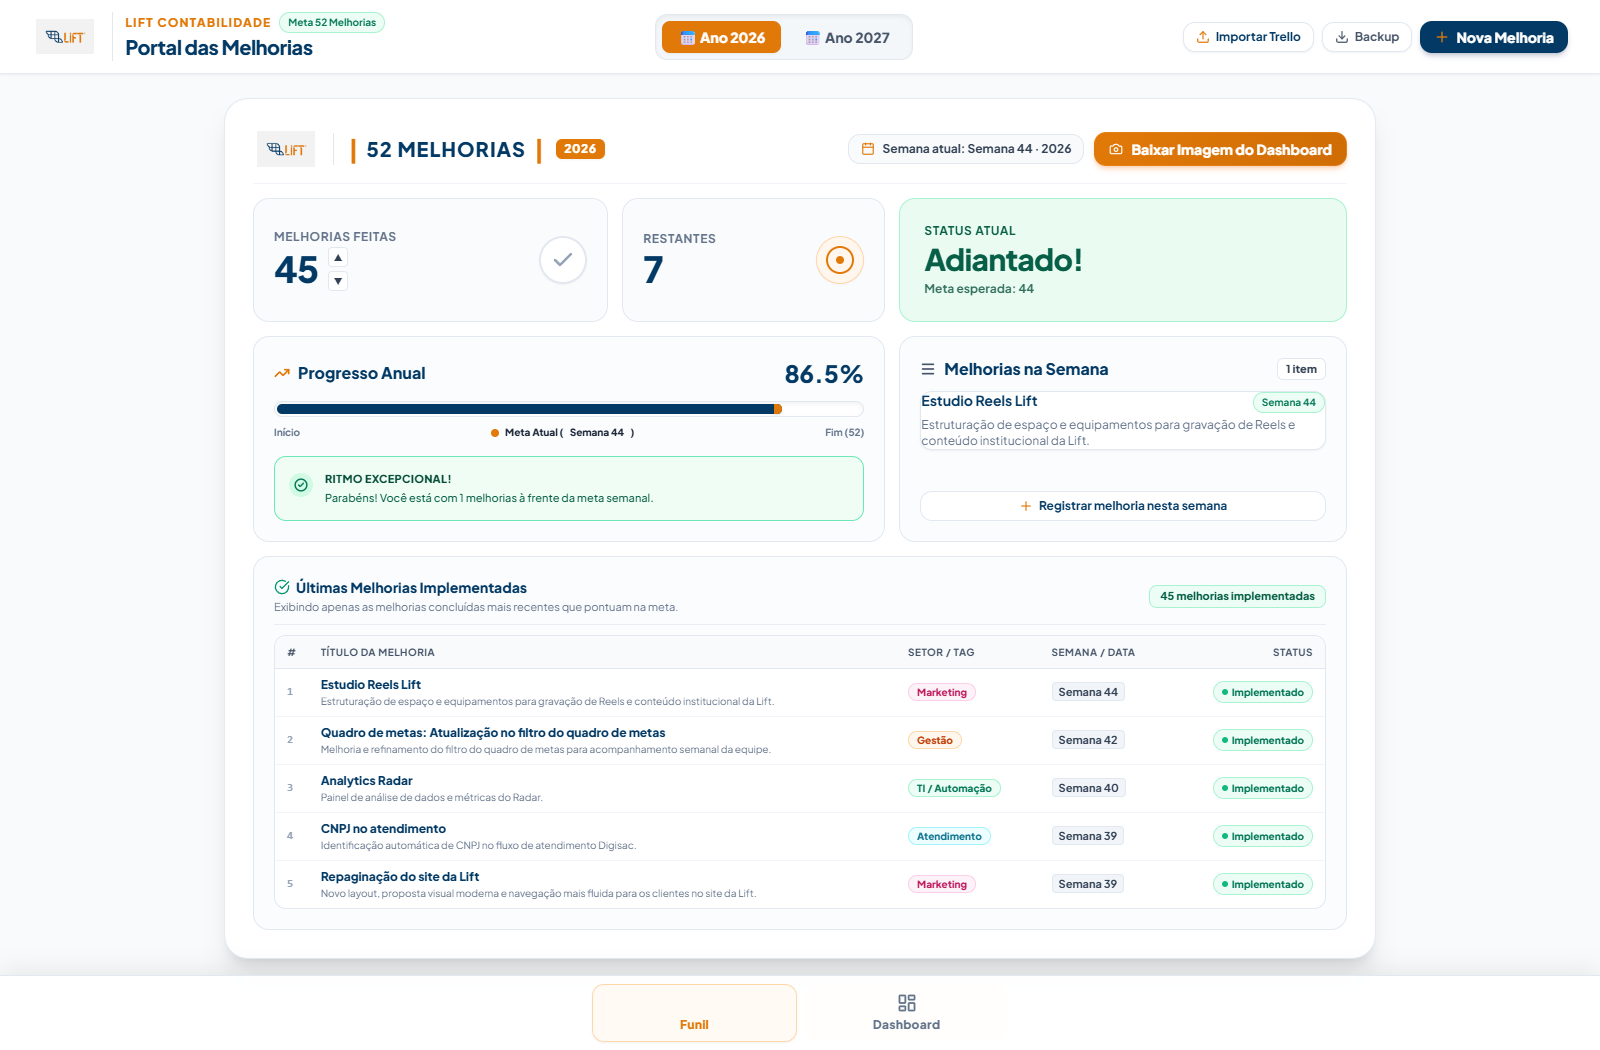
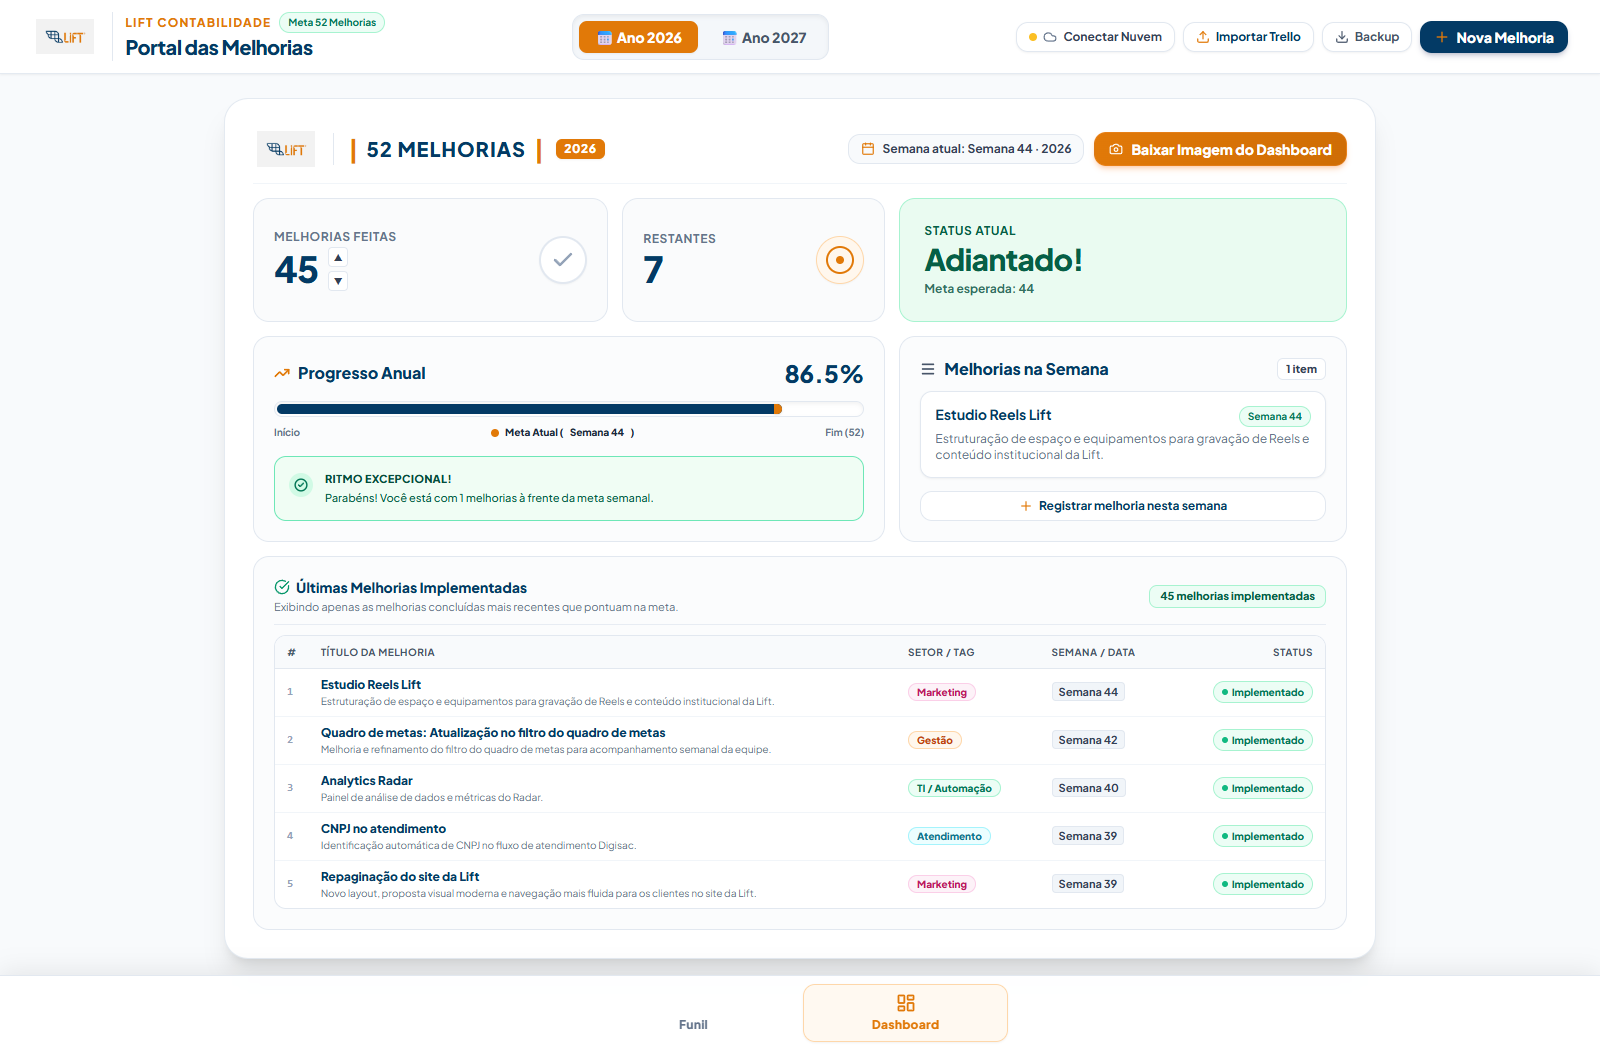
feat: Adiciona integração em tempo real com Supabase na nuvem

diff --git a/app.js b/app.js
@@ -80,6 +80,9 @@ function initApp() {
   // Setup Board Wheel Scroll
   setupBoardWheelScroll();
 
+  // Initialize Supabase Cloud Sync (Real-time team synchronization)
+  initSupabaseClient();
+
   // Check URL hash for initial tab
   if (window.location.hash === '#dashboard') {
     switchTab('dashboard');
@@ -426,6 +429,17 @@ function moveCardToList(cardId, targetListId) {
     }
     persistData();
     renderAll();
+
+    // Sincronizar mudança de etapa na nuvem (Supabase)
+    if (supabaseClient) {
+      supabaseClient.from('melhorias').update({
+        id_list: targetListId,
+        week: card.week,
+        date: card.date
+      }).eq('id', cardId).then(({ error }) => {
+        if (error) console.warn('Supabase move error:', error);
+      });
+    }
   }
 }
 
@@ -840,6 +854,26 @@ function saveCard(event) {
   persistData();
   closeCardModal();
   renderAll();
+
+  // Sincronizar criação / edição na nuvem (Supabase)
+  if (supabaseClient) {
+    const cardToSync = id ? cards.find(c => c.id === id) : cards[cards.length - 1];
+    if (cardToSync) {
+      supabaseClient.from('melhorias').upsert({
+        id: cardToSync.id,
+        year: currentYear,
+        id_list: cardToSync.idList,
+        name: cardToSync.name,
+        description: cardToSync.desc || '',
+        tag: cardToSync.tag || 'Geral',
+        author: cardToSync.author || 'Pedro Levi',
+        week: cardToSync.week || currentWeek,
+        date: cardToSync.date || new Date().toISOString()
+      }).then(({ error }) => {
+        if (error) console.warn('Supabase upsert error:', error);
+      });
+    }
+  }
 }
 
 function deleteCurrentCard() {
@@ -851,6 +885,13 @@ function deleteCurrentCard() {
     persistData();
     closeCardModal();
     renderAll();
+
+    // Sincronizar exclusão na nuvem (Supabase)
+    if (supabaseClient) {
+      supabaseClient.from('melhorias').delete().eq('id', id).then(({ error }) => {
+        if (error) console.warn('Supabase delete error:', error);
+      });
+    }
   }
 }
 
@@ -1075,6 +1116,237 @@ function escapeHtml(str) {
     .replace(/>/g, '&gt;')
     .replace(/"/g, '&quot;')
     .replace(/'/g, '&#039;');
+}
+
+// ============================================================
+// SUPABASE (POSTGRESQL NA NUVEM) - SINCRONIZAÇÃO EM TEMPO REAL
+// ============================================================
+let supabaseClient = null;
+
+function initSupabaseClient() {
+  const url = (typeof SUPABASE_URL !== 'undefined' && SUPABASE_URL) ? SUPABASE_URL.trim() : (localStorage.getItem('lift_supabase_url') || '').trim();
+  const key = (typeof SUPABASE_ANON_KEY !== 'undefined' && SUPABASE_ANON_KEY) ? SUPABASE_ANON_KEY.trim() : (localStorage.getItem('lift_supabase_key') || '').trim();
+
+  const dot = document.getElementById('cloudStatusDot');
+  const txt = document.getElementById('cloudStatusText');
+
+  if (url && key && window.supabase) {
+    try {
+      supabaseClient = window.supabase.createClient(url, key);
+      if (dot) dot.className = 'w-2 h-2 rounded-full bg-emerald-500 animate-pulse shrink-0';
+      if (txt) txt.textContent = 'Nuvem: Ativa';
+
+      syncFromSupabase();
+      subscribeSupabaseRealtime();
+    } catch (err) {
+      console.warn('Erro ao inicializar Supabase:', err);
+      if (dot) dot.className = 'w-2 h-2 rounded-full bg-rose-500 shrink-0';
+      if (txt) txt.textContent = 'Nuvem: Erro';
+    }
+  } else {
+    if (dot) dot.className = 'w-2 h-2 rounded-full bg-amber-400 shrink-0';
+    if (txt) txt.textContent = 'Conectar Nuvem';
+  }
+}
+
+async function syncFromSupabase() {
+  if (!supabaseClient) return;
+
+  try {
+    const { data, error } = await supabaseClient.from('melhorias').select('*');
+    if (error) {
+      console.warn('Supabase fetch error:', error);
+      return;
+    }
+
+    if (!data || data.length === 0) {
+      // Auto-seed banco de dados na nuvem com melhorias existentes
+      const cards2026 = cardsByYear[2026] || [];
+      if (cards2026.length > 0) {
+        const seedRows = cards2026.map(c => ({
+          id: c.id,
+          year: 2026,
+          id_list: c.idList,
+          name: c.name,
+          description: c.desc || '',
+          tag: c.tag || 'Geral',
+          author: c.author || 'Pedro Levi',
+          week: c.week || 44,
+          date: c.date || new Date().toISOString()
+        }));
+        await supabaseClient.from('melhorias').upsert(seedRows);
+      }
+    } else {
+      cardsByYear[2026] = data.filter(r => r.year === 2026).map(r => ({
+        id: r.id,
+        idShort: 1,
+        idList: r.id_list,
+        name: r.name,
+        desc: r.description || '',
+        tag: r.tag || 'Geral',
+        author: r.author || 'Pedro Levi',
+        week: r.week || 44,
+        date: r.date || new Date().toISOString()
+      }));
+
+      cardsByYear[2027] = data.filter(r => r.year === 2027).map(r => ({
+        id: r.id,
+        idShort: 1,
+        idList: r.id_list,
+        name: r.name,
+        desc: r.description || '',
+        tag: r.tag || 'Geral',
+        author: r.author || 'Pedro Levi',
+        week: r.week || 1,
+        date: r.date || new Date().toISOString()
+      }));
+
+      persistData();
+      renderAll();
+    }
+  } catch (err) {
+    console.warn('Erro ao sincronizar do Supabase:', err);
+  }
+}
+
+function subscribeSupabaseRealtime() {
+  if (!supabaseClient) return;
+
+  try {
+    supabaseClient
+      .channel('melhorias_realtime')
+      .on('postgres_changes', { event: '*', schema: 'public', table: 'melhorias' }, (payload) => {
+        const eventType = payload.eventType;
+        const row = payload.new;
+        const old = payload.old;
+
+        if (eventType === 'INSERT' && row) {
+          const yr = row.year || 2026;
+          const card = {
+            id: row.id,
+            idShort: 1,
+            idList: row.id_list,
+            name: row.name,
+            desc: row.description || '',
+            tag: row.tag || 'Geral',
+            author: row.author || 'Pedro Levi',
+            week: row.week || 44,
+            date: row.date || new Date().toISOString()
+          };
+          if (!cardsByYear[yr].some(c => c.id === card.id)) {
+            cardsByYear[yr].push(card);
+          }
+        } else if (eventType === 'UPDATE' && row) {
+          const yr = row.year || 2026;
+          const card = cardsByYear[yr].find(c => c.id === row.id);
+          if (card) {
+            card.idList = row.id_list;
+            card.name = row.name;
+            card.desc = row.description || '';
+            card.tag = row.tag || 'Geral';
+            card.author = row.author || 'Pedro Levi';
+            card.week = row.week;
+            card.date = row.date;
+          } else {
+            cardsByYear[yr].push({
+              id: row.id,
+              idShort: 1,
+              idList: row.id_list,
+              name: row.name,
+              desc: row.description || '',
+              tag: row.tag || 'Geral',
+              author: row.author || 'Pedro Levi',
+              week: row.week || 44,
+              date: row.date || new Date().toISOString()
+            });
+          }
+        } else if (eventType === 'DELETE' && old) {
+          cardsByYear[2026] = cardsByYear[2026].filter(c => c.id !== old.id);
+          cardsByYear[2027] = cardsByYear[2027].filter(c => c.id !== old.id);
+        }
+
+        persistData();
+        renderAll();
+      })
+      .subscribe();
+  } catch (err) {
+    console.warn('Erro no Realtime do Supabase:', err);
+  }
+}
+
+function openSupabaseModal() {
+  const modal = document.getElementById('supabaseModal');
+  const url = (typeof SUPABASE_URL !== 'undefined' && SUPABASE_URL) ? SUPABASE_URL.trim() : (localStorage.getItem('lift_supabase_url') || '').trim();
+  const key = (typeof SUPABASE_ANON_KEY !== 'undefined' && SUPABASE_ANON_KEY) ? SUPABASE_ANON_KEY.trim() : (localStorage.getItem('lift_supabase_key') || '').trim();
+
+  document.getElementById('supabaseUrlInput').value = url;
+  document.getElementById('supabaseKeyInput').value = key;
+
+  modal.classList.remove('hidden');
+  modal.classList.add('flex');
+}
+
+function closeSupabaseModal() {
+  const modal = document.getElementById('supabaseModal');
+  modal.classList.add('hidden');
+  modal.classList.remove('flex');
+}
+
+function copySupabaseSQL() {
+  const sql = `-- TABELA DE MELHORIAS (LIFT CONTABILIDADE)
+CREATE TABLE IF NOT EXISTS melhorias (
+  id TEXT PRIMARY KEY,
+  year INT NOT NULL DEFAULT 2026,
+  id_list TEXT NOT NULL,
+  name TEXT NOT NULL,
+  description TEXT DEFAULT '',
+  tag TEXT DEFAULT 'Geral',
+  author TEXT DEFAULT 'Pedro Levi',
+  week INT DEFAULT 44,
+  date TIMESTAMPTZ DEFAULT NOW(),
+  created_at TIMESTAMPTZ DEFAULT NOW()
+);
+
+-- Habilitar Row Level Security (RLS) com acesso público
+ALTER TABLE melhorias ENABLE ROW LEVEL SECURITY;
+
+CREATE POLICY "Permitir leitura pública" ON melhorias FOR SELECT USING (true);
+CREATE POLICY "Permitir inserção pública" ON melhorias FOR INSERT WITH CHECK (true);
+CREATE POLICY "Permitir atualização pública" ON melhorias FOR UPDATE USING (true) WITH CHECK (true);
+CREATE POLICY "Permitir exclusão pública" ON melhorias FOR DELETE USING (true);
+
+-- Habilitar sincronização em tempo real (Realtime)
+ALTER PUBLICATION supabase_realtime ADD TABLE melhorias;`;
+
+  navigator.clipboard.writeText(sql).then(() => {
+    const btn = document.getElementById('btnCopySql');
+    if (btn) {
+      btn.innerHTML = '✓ SQL Copiado!';
+      setTimeout(() => {
+        btn.innerHTML = '<i data-lucide="copy" class="w-3 h-3"></i><span>Copiar Script SQL</span>';
+        if (window.lucide) lucide.createIcons();
+      }, 2500);
+    }
+  }).catch(() => {
+    alert('SQL para copiar:\n\n' + sql);
+  });
+}
+
+function saveSupabaseConfig() {
+  const url = document.getElementById('supabaseUrlInput').value.trim();
+  const key = document.getElementById('supabaseKeyInput').value.trim();
+
+  if (!url || !key) {
+    alert('Por favor, preencha a URL e a Anon Key do Supabase.');
+    return;
+  }
+
+  localStorage.setItem('lift_supabase_url', url);
+  localStorage.setItem('lift_supabase_key', key);
+
+  closeSupabaseModal();
+  initSupabaseClient();
+  alert('Configuração do Supabase salva com sucesso! Sincronizando com a nuvem...');
 }
 
 // Start

diff --git a/index.html b/index.html
@@ -151,8 +151,15 @@
         </button>
       </div>
 
-      <!-- Right Header Actions (Baixar Imagem removed from header as requested) -->
+      <!-- Right Header Actions -->
       <div class="flex items-center gap-2 flex-wrap">
+        <!-- Cloud Sync Status (Supabase) -->
+        <button onclick="openSupabaseModal()" id="btnCloudSync" title="Configurar sincronização em nuvem compartilhada" class="flex items-center gap-1.5 px-3 py-1.5 rounded-xl bg-white hover:bg-slate-50 text-xs font-bold text-slate-700 border border-slate-200 shadow-sm transition-all">
+          <span id="cloudStatusDot" class="w-2 h-2 rounded-full bg-amber-400 shrink-0"></span>
+          <i data-lucide="cloud" class="w-3.5 h-3.5 text-slate-500"></i>
+          <span id="cloudStatusText" class="hidden sm:inline">Nuvem: Conectar</span>
+        </button>
+
         <!-- Import Trello JSON -->
         <button onclick="openImportModal()" class="flex items-center gap-1.5 px-3 py-1.5 rounded-xl bg-white hover:bg-slate-50 text-xs font-bold text-[#033A65] border border-slate-200 shadow-sm transition-all">
           <i data-lucide="upload" class="w-3.5 h-3.5 text-[#E17908]"></i>
@@ -697,7 +704,65 @@
     </div>
   </div>
 
+  <!-- ========================================== -->
+  <!-- MODAL: CONFIGURAÇÃO SUPABASE (NUVEM)       -->
+  <!-- ========================================== -->
+  <div id="supabaseModal" class="fixed inset-0 z-50 bg-slate-900/60 backdrop-blur-sm hidden items-center justify-center p-4">
+    <div class="bg-white border border-slate-200 rounded-3xl w-full max-w-lg shadow-2xl p-6 text-slate-800 space-y-4 animate-in fade-in zoom-in-95 duration-200">
+      
+      <div class="flex items-center justify-between border-b border-slate-100 pb-3">
+        <div class="flex items-center gap-2.5">
+          <div class="w-8 h-8 rounded-lg bg-emerald-50 text-emerald-700 border border-emerald-200 flex items-center justify-center font-bold shadow-xs">
+            <i data-lucide="cloud" class="w-4 h-4"></i>
+          </div>
+          <div>
+            <h3 class="font-black text-sm text-[#033A65]">Sincronização em Nuvem (Supabase)</h3>
+            <p class="text-[11px] text-slate-500">Qualquer alteração feita será refletida em tempo real para quem acessar o link.</p>
+          </div>
+        </div>
+        <button onclick="closeSupabaseModal()" class="w-7 h-7 rounded-lg bg-slate-100 hover:bg-slate-200 text-slate-500 flex items-center justify-center text-xs font-bold transition-all">✕</button>
+      </div>
+
+      <div class="space-y-3.5 text-xs">
+        <div>
+          <label class="block text-slate-700 font-bold mb-1">Project URL (Supabase)</label>
+          <input type="text" id="supabaseUrlInput" placeholder="https://xxxxxxxx.supabase.co" class="w-full bg-slate-50 border border-slate-200 rounded-xl px-3.5 py-2 text-slate-900 focus:outline-none focus:bg-white focus:border-[#E17908]">
+        </div>
+
+        <div>
+          <label class="block text-slate-700 font-bold mb-1">Project API Anon Key (Chave Pública)</label>
+          <input type="text" id="supabaseKeyInput" placeholder="eyJhbGciOiJIUzI1NiIsInR5cCI6..." class="w-full bg-slate-50 border border-slate-200 rounded-xl px-3.5 py-2 text-slate-900 focus:outline-none focus:bg-white focus:border-[#E17908]">
+        </div>
+
+        <div class="bg-slate-50 p-3 rounded-xl border border-slate-200 space-y-2">
+          <div class="flex items-center justify-between">
+            <span class="font-bold text-slate-700">Script SQL para executar no Supabase:</span>
+            <button type="button" onclick="copySupabaseSQL()" id="btnCopySql" class="px-2.5 py-1 bg-white hover:bg-slate-100 border border-slate-200 rounded-md text-[10px] font-bold text-[#033A65] flex items-center gap-1 shadow-xs">
+              <i data-lucide="copy" class="w-3 h-3"></i>
+              <span>Copiar Script SQL</span>
+            </button>
+          </div>
+          <p class="text-[10px] text-slate-500 leading-relaxed">
+            Abra o <strong>SQL Editor</strong> no Supabase, cole o script copiado e clique em <strong>Run</strong> para criar a tabela com sincronização em tempo real.
+          </p>
+        </div>
+
+        <div class="flex justify-end gap-2 pt-2 border-t border-slate-100">
+          <button type="button" onclick="closeSupabaseModal()" class="px-4 py-2 bg-slate-100 hover:bg-slate-200 text-slate-700 rounded-xl font-bold">
+            Fechar
+          </button>
+          <button type="button" onclick="saveSupabaseConfig()" class="px-5 py-2 bg-[#E17908] hover:bg-[#cf6d05] text-white rounded-xl font-black shadow-md">
+            Salvar e Conectar
+          </button>
+        </div>
+      </div>
+
+    </div>
+  </div>
+
   <!-- SCRIPTS -->
+  <script src="https://cdn.jsdelivr.net/npm/@supabase/supabase-js@2"></script>
+  <script src="supabase_config.js"></script>
   <script src="data_trello.js"></script>
   <script src="app.js"></script>
   <script>

diff --git a/supabase_config.js b/supabase_config.js
@@ -1,0 +1,8 @@
+// ============================================================
+// CONFIGURAÇÃO DO SUPABASE (BANCO DE DADOS NA NUVEM)
+// ============================================================
+// Cole aqui as credenciais do seu projeto Supabase:
+// (Você encontra em Project Settings > API no painel do Supabase)
+
+const SUPABASE_URL = "";
+const SUPABASE_ANON_KEY = "";
